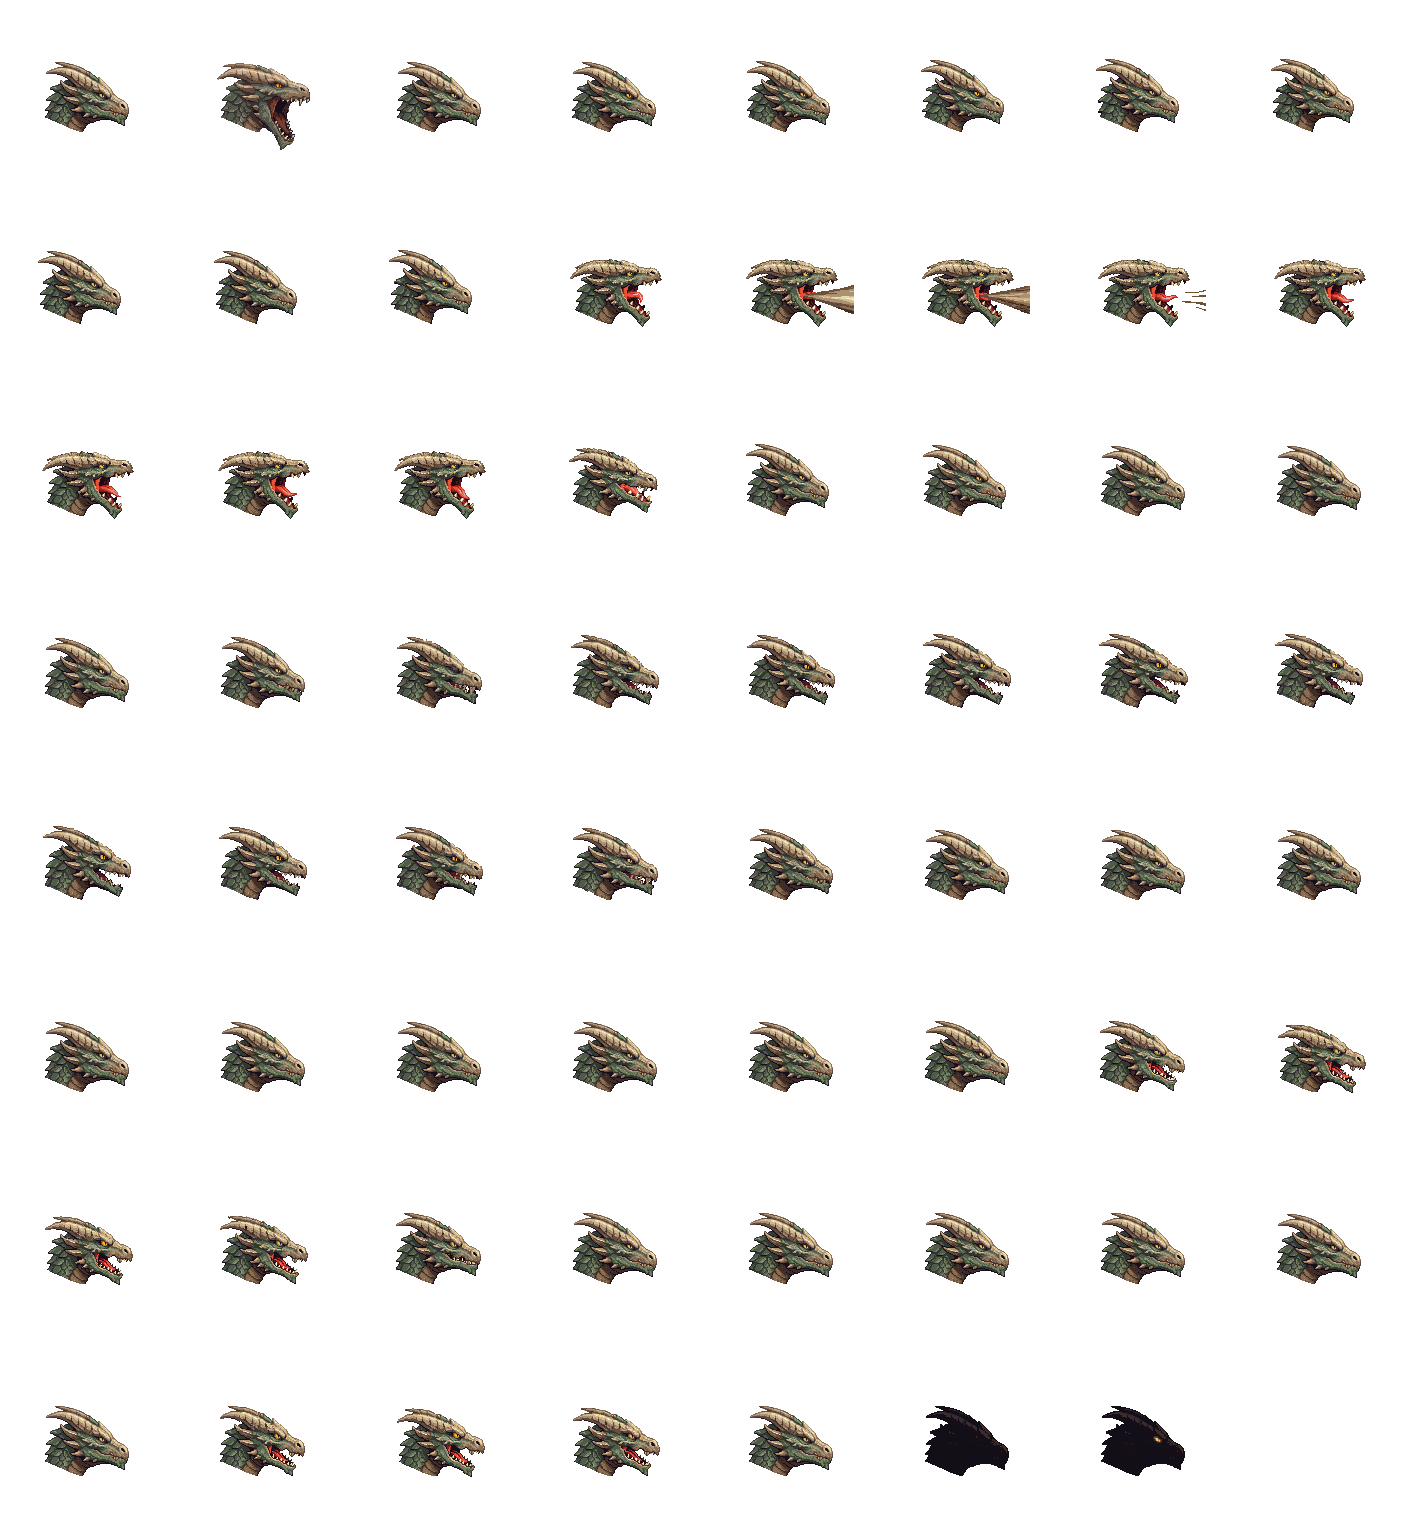
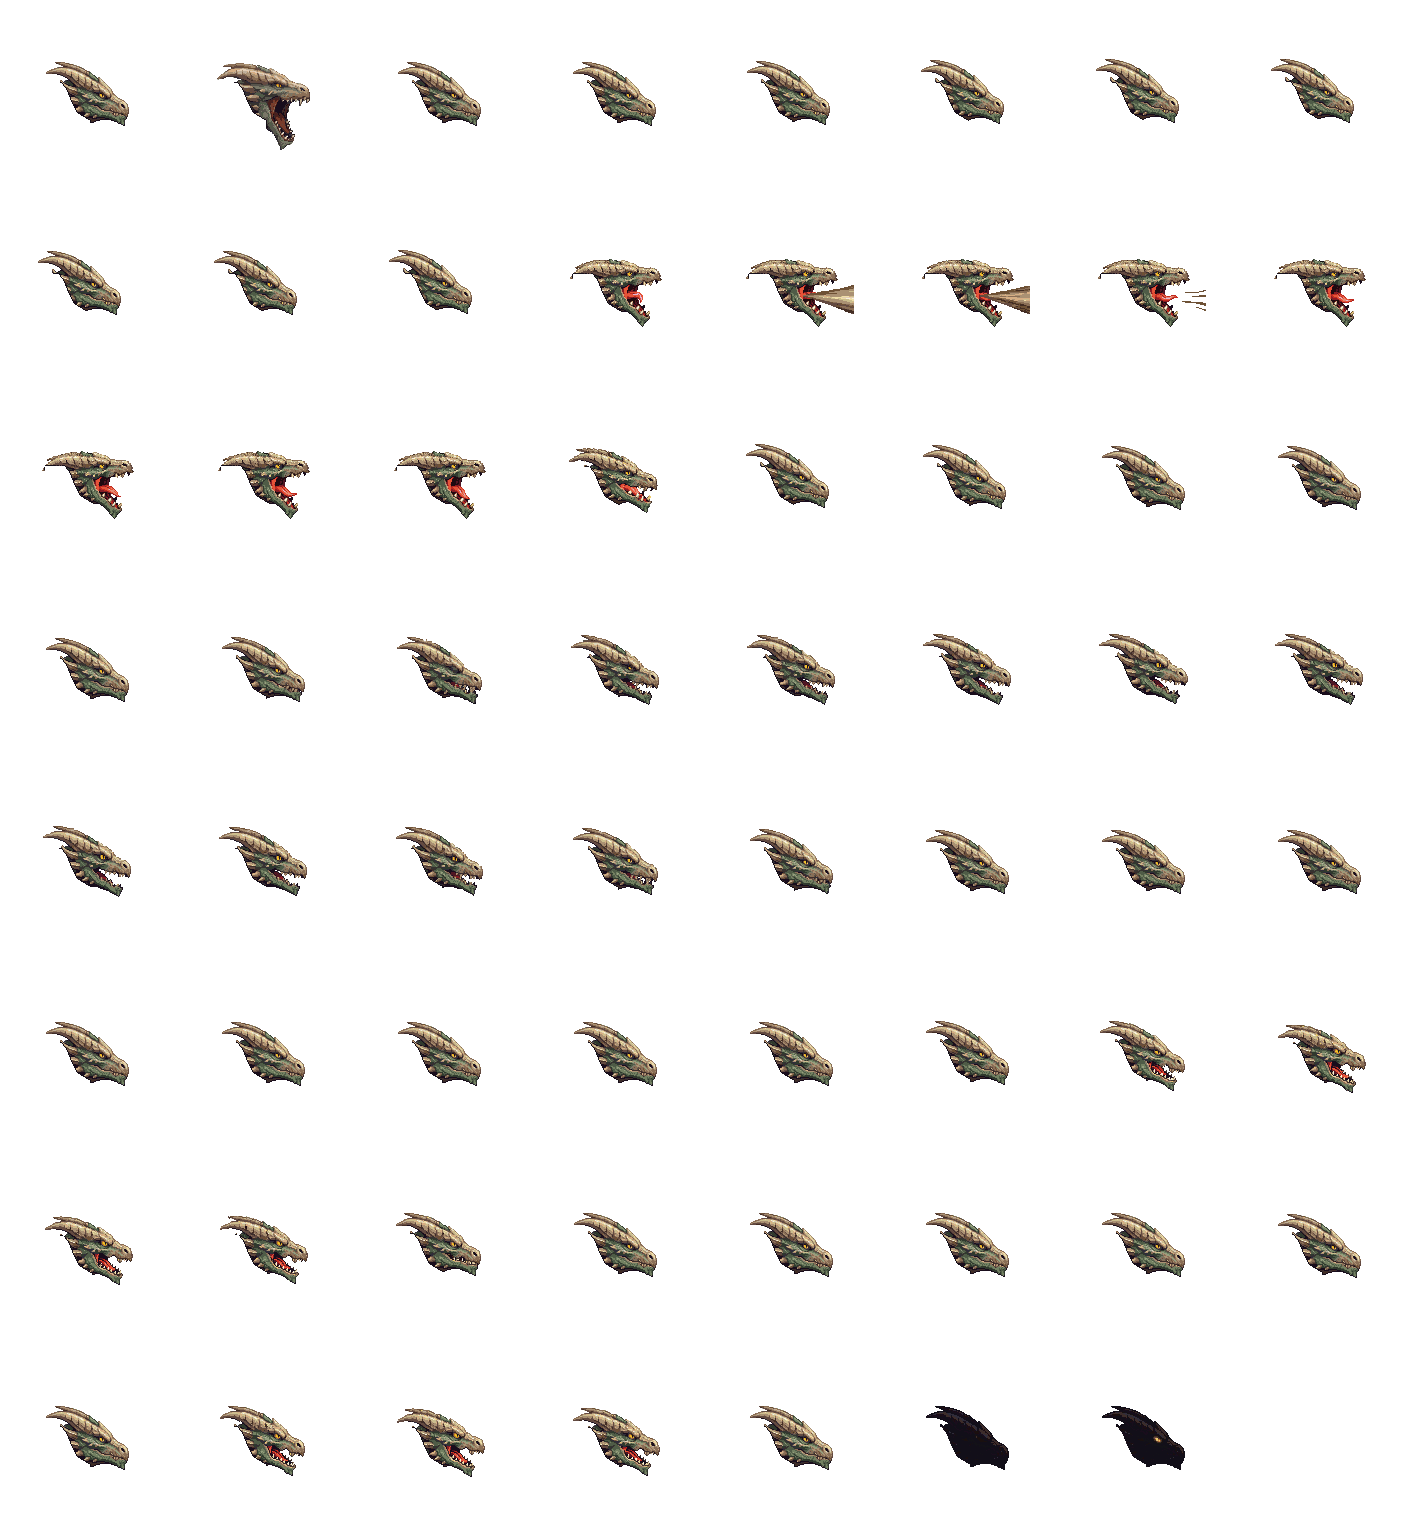
Wyrm rig: the side heads carry no neck of their own
The side head was drawn with a stub of neck behind its cheek spines that fit
neither the style nor the colors of the neck sections (Sean). The packer cuts
it from every frame and outlines the new edge; the neck ends under the skull.

diff --git a/tools/art/wyrm_rig_pack.py b/tools/art/wyrm_rig_pack.py
@@ -13,13 +13,20 @@ clip (first cell, frame count, frames a second) and every joint (in art pixels).
 Nothing is redrawn or resized. PixelLab gives each clip its own canvas size, so each clip
 is slid to where its first frame best covers the still it grew from, and every cell of a
 sheet then shares one origin. `--sheet` also writes a contact sheet to look at.
+
+One thing is cut away: the side head was drawn with a stub of neck behind its cheek spines
+(green scales over a brown throat), which matches neither the style nor the colors of the
+neck sections it now sits on (Sean, 2026-11-19). `STUB` outlines it on the still; it is
+found again in every frame by matching the still's patch of scales, cut out, and the new
+edge is given the art's own dark outline. The raw art in art/pixellab is left as it was.
 """
 import glob
 import json
 import os
 import sys
 
-from PIL import Image, ImageChops
+import numpy as np
+from PIL import Image, ImageChops, ImageDraw
 
 ROOT = os.path.abspath(os.path.join(os.path.dirname(os.path.abspath(__file__)), '..', '..'))
 SRC = os.path.join(ROOT, 'art', 'pixellab', 'bosses', 'haar_wyrm')
@@ -66,11 +73,86 @@ PARTS = {
 # Joints, in the art pixels of each part's still (x right, y down, from the still's top left).
 JOINTS = {
     # Where the neck meets the skull, and where a breath leaves the jaws.
-    'head_east': {'neck': (30, 68), 'mouth': (84, 66), 'eyes': [(62, 47)], 'size': (92, 92)},
+    # The neck ends under the skull itself, so its open rim never shows; it comes out from
+    # behind the cheek spines, where the stub of neck was cut away.
+    'head_east': {'neck': (47, 54), 'mouth': (84, 66), 'eyes': [(62, 47)], 'size': (92, 92)},
     'head_south': {'neck': (46, 62), 'mouth': (46, 80), 'eyes': [(35, 52), (59, 52)], 'size': (92, 92)},
     # The three stumps on its shoulders (west, middle, east) and where it meets the ground.
     'body': {'stumps': [(85, 21), (127, 11), (168, 21)], 'ground': (128, 124), 'size': (256, 128)},
 }
+
+
+# The stub of neck on the side head, on its 92 px still: everything behind the cheek spines
+# and under the hinge of the jaw. `patch` is the block of scales matched in each frame, and
+# `fixed` names the clips too dark to match (they stand exactly where the still does).
+STUB = {
+    'head_east': {
+        'size': (92, 92),
+        'poly': [(0, 33), (19, 33), (24, 40), (27, 48), (31, 56), (34, 62), (40, 66), (47, 70), (47, 92), (0, 92)],
+        'patch': (4, 36, 30, 72),
+        'fixed': ('shut', 'shadow'),
+    },
+}
+OUTLINE = (20, 14, 24)
+
+
+def find_stub(still, cell, patch, reach=16):
+    """How far the still's patch of neck scales has moved in `cell` (both numpy RGBA)."""
+    x0, y0, x1, y1 = patch
+    tmpl = still[y0:y1, x0:x1]
+    solid = tmpl[..., 3] > 40
+    best = (1e18, (0, 0))
+    h, w = cell.shape[:2]
+    for dy in range(-reach, reach + 1):
+        for dx in range(-reach, reach + 1):
+            if y0 + dy < 0 or x0 + dx < 0 or y1 + dy > h or x1 + dx > w:
+                continue
+            win = cell[y0 + dy:y1 + dy, x0 + dx:x1 + dx]
+            d = np.abs(win[..., :3] - tmpl[..., :3]).sum(axis=2)
+            d = np.where(win[..., 3] > 40, d, 400)
+            # A small pull toward no move at all settles ties in flat scales.
+            score = d[solid].mean() + 0.6 * (abs(dx) + abs(dy))
+            if score < best[0]:
+                best = (score, (dx, dy))
+    return best[1]
+
+
+def cut_stub(name, cell_size, cells, meta):
+    """Cuts the stub of neck out of every cell of a side head, in place."""
+    spec = STUB[name]
+    off = ((cell_size[0] - spec['size'][0]) // 2, (cell_size[1] - spec['size'][1]) // 2)
+    patch = (spec['patch'][0] + off[0], spec['patch'][1] + off[1], spec['patch'][2] + off[0], spec['patch'][3] + off[1])
+    still = np.asarray(cells[0]).astype(np.int32)
+    for clip, c in meta.items():
+        idx = range(c['start'], c['start'] + c['count'])
+        if clip in spec['fixed']:
+            shifts = [(0, 0)] * c['count']
+        else:
+            shifts = [find_stub(still, np.asarray(cells[i]).astype(np.int32), patch) for i in idx]
+            # A frame that reads a pixel off its neighbours would make the cut shimmer.
+            if len(shifts) > 2:
+                smooth = list(shifts)
+                for k in range(1, len(shifts) - 1):
+                    smooth[k] = tuple(sorted(s[a] for s in shifts[k - 1:k + 2])[1] for a in (0, 1))
+                shifts = smooth
+        for i, (dx, dy) in zip(idx, shifts):
+            mask = Image.new('L', cell_size, 0)
+            ImageDraw.Draw(mask).polygon([(x + off[0] + dx, y + off[1] + dy) for x, y in spec['poly']], fill=255)
+            gone = np.asarray(mask) > 0
+            a = np.asarray(cells[i]).copy()
+            was = a[..., 3] > 40
+            a[gone] = 0
+            # The art's own dark outline along the new edge: kept pixels beside cut ones.
+            cut = gone & was
+            beside = np.zeros_like(cut)
+            beside[1:, :] |= cut[:-1, :]
+            beside[:-1, :] |= cut[1:, :]
+            beside[:, 1:] |= cut[:, :-1]
+            beside[:, :-1] |= cut[:, 1:]
+            edge = beside & (a[..., 3] > 40)
+            if clip not in spec['fixed']:
+                a[edge, 0], a[edge, 1], a[edge, 2] = OUTLINE
+            cells[i] = Image.fromarray(a, 'RGBA')
 
 
 def frames_of(folder):
@@ -121,6 +203,8 @@ def pack_part(name, cell, clips):
             if im.width > cell[0] or im.height > cell[1]:
                 sys.exit('%s/%s: a %dx%d frame is larger than the %dx%d cell' % (name, clip, im.width, im.height, cell[0], cell[1]))
             cells.append(paste_centered(cell, im, shift))
+    if name in STUB:
+        cut_stub(name, cell, cells, meta)
     rows = (len(cells) + COLUMNS - 1) // COLUMNS
     sheet = Image.new('RGBA', (cell[0] * COLUMNS, cell[1] * rows), (0, 0, 0, 0))
     for i, c in enumerate(cells):

diff --git a/docs/design-bible.md b/docs/design-bible.md
@@ -1085,7 +1085,7 @@ The core (phase 2) has none: no blade reaches it, only the veins.
 - **The heads fall:** a doused head at 0 dies and hangs limp, and the round goes on without its breath. Each death quickens the rest (wind-ups and the gap between breaths times 0.85, never under `Enemy.MIN_TELEGRAPH`) and rings a phase break. The third head's death ends him.
 - **Reward:** Fall Seed and a skill point. With him gone the cistern stays full for good and the spring in it can be cleared (press Up at it), which restores the Haar Spring.
 - **Sound:** his own theme (`haar_wyrm`); clicks as the eyes open, snorts and a purr, a roar as the fight begins, at a death and at each rage; a hiss before the plume and the plume's bellow (`haar_breath`); a rush of water for the geyser; near silence under the fog's low drone; splashes as the cistern fills and a boil as it empties. New sounds for the clicks, the purr and the geyser's roar can come with the art.
-- **Look (the rig, 2026-11-19):** Sean's PixelLab art on a skeleton (`WyrmRig`, 13.7). The body (256x128, cloaked in shadow) crouches on the tunnel's floor, and a neck grows from each of the three stumps on its shoulders: 20 bones for each side neck and 13 for the middle one, each bone carrying one of the eight tapering neck sections of his trim sheets, the widest at the stump. A section sits in the one below it, so a neck telescopes: it shows between 36% and 76% of each section, shortening to droop a head on the rim and lengthening to reach. Each frame a neck is laid along a curve, up out of its stump and into the skull from behind; the curve bends more when the head comes close, and its belly trails a head that snaps. A head that looks back at its own body turns its neck round behind it. The side heads are in profile and the middle head faces us. The heads keep frame-by-frame clips for what bones this size can't do: jaws drawing back before a breath and opening for it, the glow in the fog head's throat, a roar in the rage. The rig turns the whole head: it rears before the plume and noses down to pour it, sags, hangs nose-down when dead, and the geyser head points along its aim, so the jet leaves its jaws. The root of each neck stands in the tunnel's dark; a doused head is drenched blue and drips, and a dead one is grey. Steam leaks at the jaws at rest and before a breath, and the geyser's throat glows as its pressure builds. **Cost, known and accepted:** the neck sections turn freely, so their pixels leave the grid. The code-drawn heads and necks the fight was built with are still there (`HaarWyrm.use_rig` off, or the game's `--wyrm-drawn`), to compare. `--wyrm-seed=N` fixes the order of the breaths and `--wyrm-reel` walks the fight through every state, for films.
+- **Look (the rig, 2026-11-19):** Sean's PixelLab art on a skeleton (`WyrmRig`, 13.7). The body (256x128, cloaked in shadow) crouches on the tunnel's floor, and a neck grows from each of the three stumps on its shoulders: 20 bones for each side neck and 13 for the middle one, each bone carrying one of the eight tapering neck sections of his trim sheets, the widest at the stump. A section sits in the one below it, so a neck telescopes: it shows between 36% and 76% of each section, shortening to droop a head on the rim and lengthening to reach. Each frame a neck is laid along a curve, up out of its stump and into the skull from behind; the curve bends more when the head comes close, and its belly trails a head that snaps. A head that looks back at its own body turns its neck round behind it. The side heads are in profile and the middle head faces us. **No neck of their own (Sean, 2026-11-19):** the side head was drawn with a stub of neck behind its cheek spines, green scales over a brown throat, which fit neither the style nor the colors of the neck sections. The packer cuts it from every frame (it finds the stub again in each by matching the still's patch of scales) and outlines the new edge; the neck's last section ends under the skull and comes out from behind the cheek spines. The heads keep frame-by-frame clips for what bones this size can't do: jaws drawing back before a breath and opening for it, the glow in the fog head's throat, a roar in the rage. The rig turns the whole head: it rears before the plume and noses down to pour it, sags, hangs nose-down when dead, and the geyser head points along its aim, so the jet leaves its jaws. The root of each neck stands in the tunnel's dark; a doused head is drenched blue and drips, and a dead one is grey. Steam leaks at the jaws at rest and before a breath, and the geyser's throat glows as its pressure builds. **Cost, known and accepted:** the neck sections turn freely, so their pixels leave the grid. The code-drawn heads and necks the fight was built with are still there (`HaarWyrm.use_rig` off, or the game's `--wyrm-drawn`), to compare. `--wyrm-seed=N` fixes the order of the breaths and `--wyrm-reel` walks the fight through every state, for films.
 
 ### 8.5 Snapcrown, the Devouring Bloom (High Boughs, Sylvarre)
 - **Concept:** A carnivorous flower the size of a house, rooted in a leaf, with a turtle-shell bulb that snaps shut. Snapcrown "chomps" (paku-paku).
